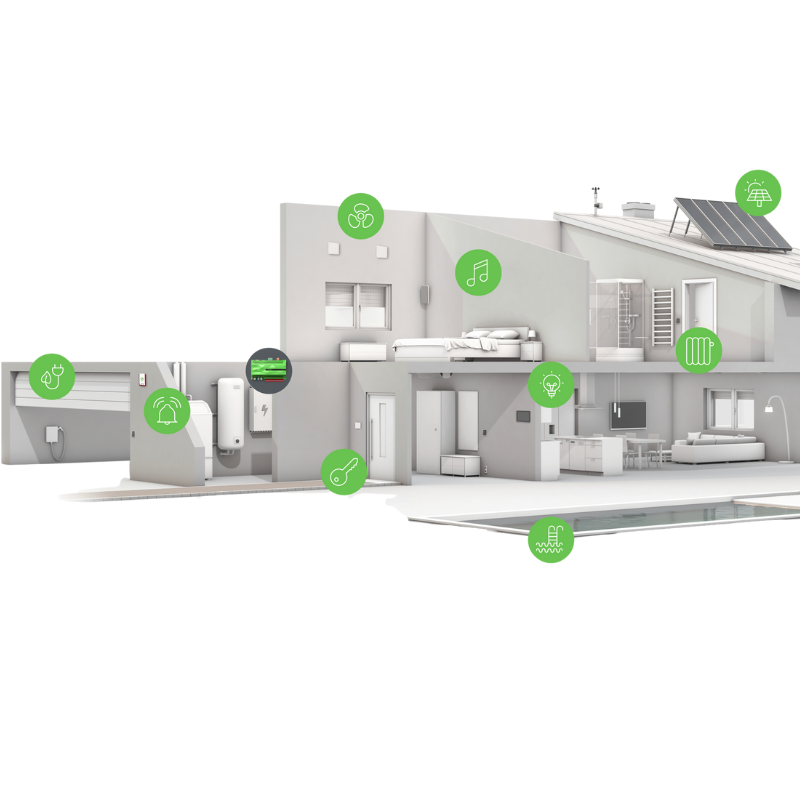
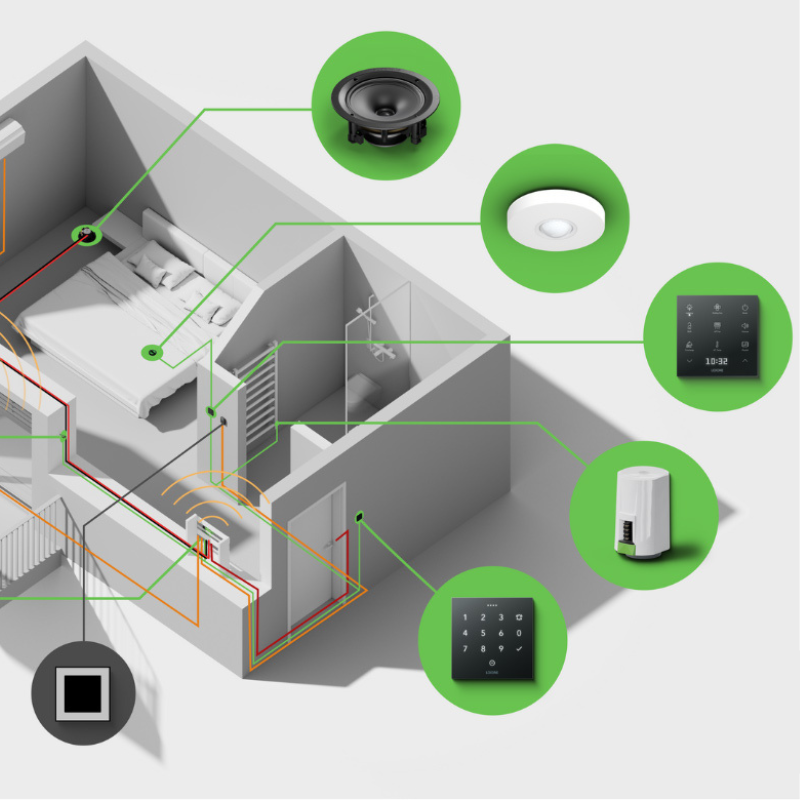
...

diff --git a/styles.css b/styles.css
@@ -26,7 +26,7 @@
 }
 
 body {
-  background: var(--bg);
+  background: #ffffff;
   color: var(--ink);
   line-height: 1.6;
   min-height: 100vh;
